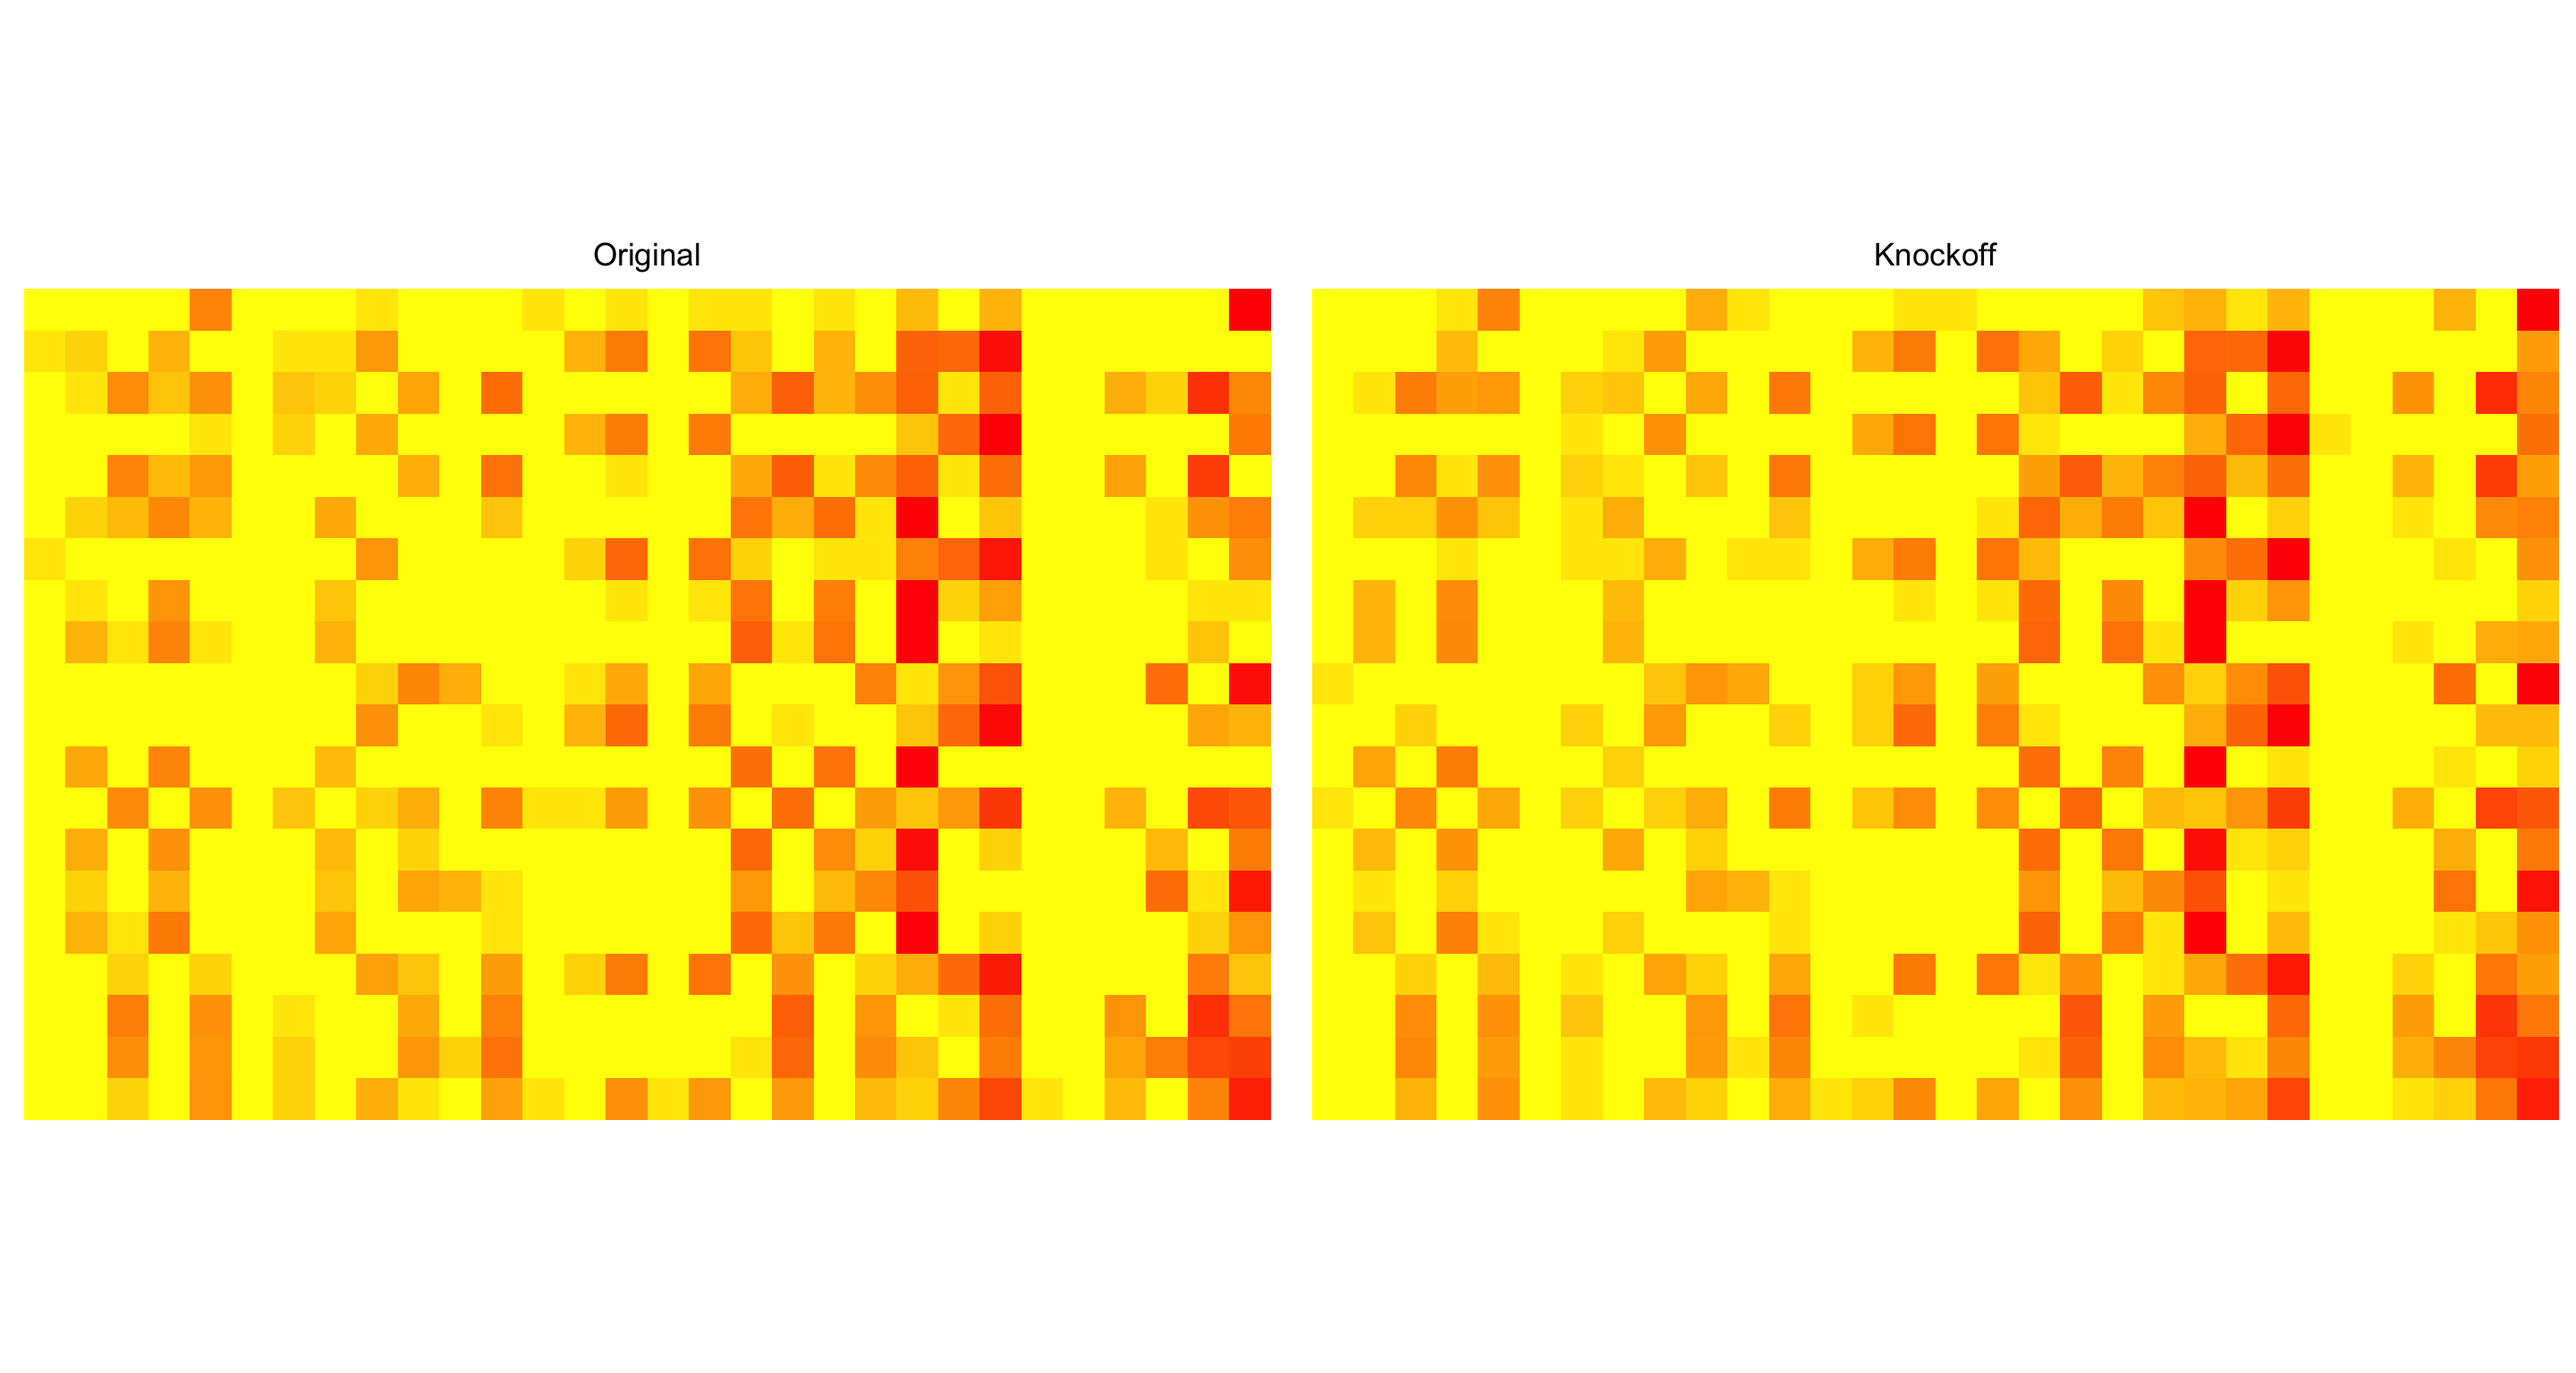
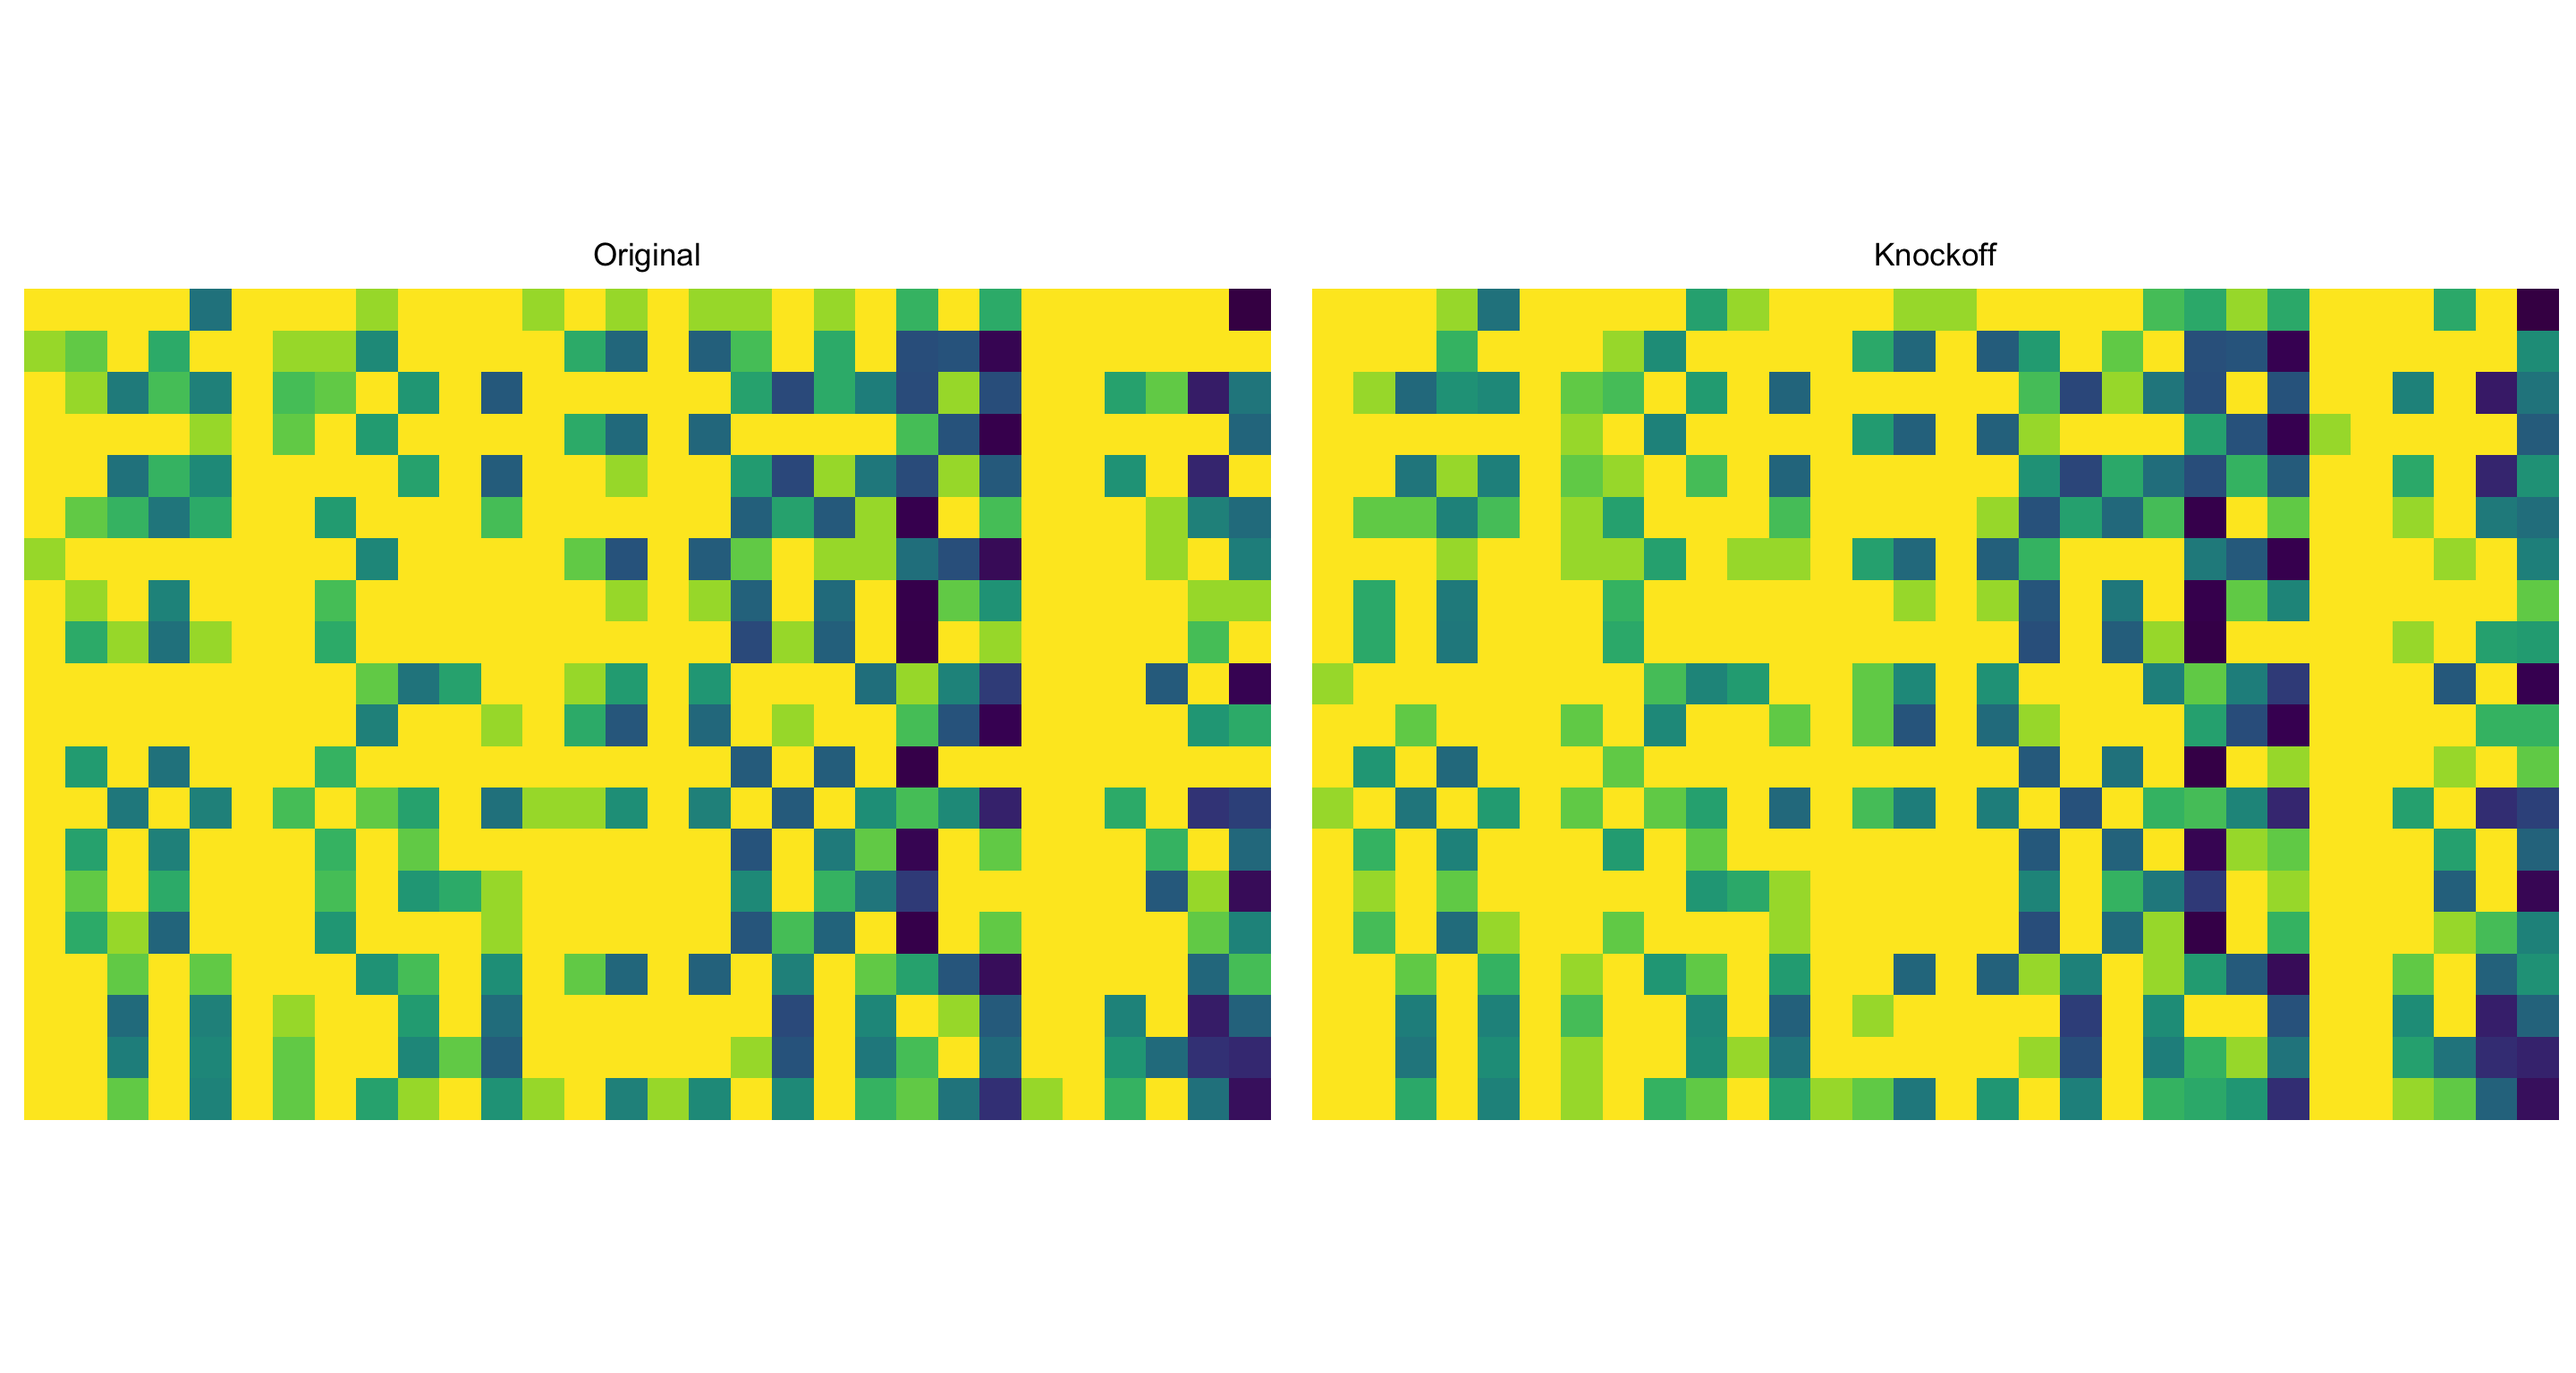
Updated Heatmaps

diff --git a/docs/Heatmaps.html b/docs/Heatmaps.html
@@ -382,7 +382,7 @@ aria-hidden="true"></span> </a>
 <div class="tab-content">
 <div id="summary" class="tab-pane fade in active">
 <p>
-<strong>Last updated:</strong> 2024-06-18
+<strong>Last updated:</strong> 2024-06-19
 </p>
 <p>
 <strong>Checks:</strong> <span
@@ -516,15 +516,15 @@ project makes it easier to run your code on other machines.</p>
 <div class="panel panel-default">
 <div class="panel-heading">
 <p class="panel-title">
-<a data-toggle="collapse" data-parent="#workflowr-checks" href="#strongRepositoryversionstrongahrefhttpsgithubcomghoshstatszinckwebsitetreeab6400d9cffa98ff7313a24230d9ecd128a1845atargetblankab6400da">
+<a data-toggle="collapse" data-parent="#workflowr-checks" href="#strongRepositoryversionstrongahrefhttpsgithubcomghoshstatszinckwebsitetreed4046024117146dd0fe93cb71858798c88ab1feftargetblankd404602a">
 <span class="glyphicon glyphicon-ok text-success"
 aria-hidden="true"></span> <strong>Repository version:</strong>
-<a href="https://github.com/ghoshstats/zinck-website/tree/ab6400d9cffa98ff7313a24230d9ecd128a1845a" target="_blank">ab6400d</a>
+<a href="https://github.com/ghoshstats/zinck-website/tree/d4046024117146dd0fe93cb71858798c88ab1fef" target="_blank">d404602</a>
 </a>
 </p>
 </div>
 <div
[2 lines of base64/hex data omitted]
 class="panel-collapse collapse">
 <div class="panel-body">
 <p>
@@ -534,7 +534,7 @@ reproducibility.
 </p>
 <p>
 The results in this page were generated with repository version
-<a href="https://github.com/ghoshstats/zinck-website/tree/ab6400d9cffa98ff7313a24230d9ecd128a1845a" target="_blank">ab6400d</a>.
+<a href="https://github.com/ghoshstats/zinck-website/tree/d4046024117146dd0fe93cb71858798c88ab1fef" target="_blank">d404602</a>.
 See the <em>Past versions</em> tab to see a history of the changes made
 to the R Markdown and HTML files.
 </p>
@@ -598,6 +598,40 @@ Message
 </tr>
 </thead>
 <tbody>
+<tr>
+<td>
+html
+</td>
+<td>
+<a href="https://rawcdn.githack.com/ghoshstats/zinck-website/51a584c54755df64d2d6c04273efc2044a5e9457/docs/Heatmaps.html" target="_blank">51a584c</a>
+</td>
+<td>
+Patron
+</td>
+<td>
+2024-06-18
+</td>
+<td>
+Changed Heatmaps
+</td>
+</tr>
+<tr>
+<td>
+Rmd
+</td>
+<td>
+<a href="https://github.com/ghoshstats/zinck-website/blob/65fc471e2e21c1bf19887a1e6d9507bc64f2c043/analysis/Heatmaps.Rmd" target="_blank">65fc471</a>
+</td>
+<td>
+Patron
+</td>
+<td>
+2024-06-18
+</td>
+<td>
+Updated Heatmaps
+</td>
+</tr>
 <tr>
 <td>
 html
@@ -680,10 +714,66 @@ rownames(X_zinck) &lt;- rownames(X_original)</code></pre>
 corresponding knockoff copy. The function applies an arcsinh
 transformation to the data for normalization and better visualization of
 abundance patterns and zero inflation within the sample taxa matrix.</p>
-<pre class="r"><code>heat1 &lt;- draw_heatmap(X_original, &quot;Original&quot;)
-heat2 &lt;- draw_heatmap(X_zinck, &quot;Knockoff&quot;)
+<pre class="r"><code>draw.heatmap &lt;- function(X, title=&quot;&quot;) {
+  reshape2::melt(asinh(X)) %&gt;%
+    dplyr::rename(sample = Var1, taxa = Var2, asinh.abun = value) %&gt;%
+    ggplot2::ggplot(., aes (x = taxa, y = sample, fill = asinh.abun)) +
+    ggplot2::geom_tile() + ggplot2::theme_bw() + ggplot2::ggtitle(title) +
+    ggplot2::labs(fill = &quot;arcsinh\nabundance&quot;) +
+    ggplot2::theme(plot.title = element_text(hjust = 0.5),
+                   axis.title.x=element_blank(), axis.title.y=element_blank(),
+                   axis.text.x = element_text(size=3, angle=90), axis.text.y = element_text(size=4)) +
+   viridis::scale_fill_viridis(discrete = FALSE, direction = -1, na.value = &quot;grey&quot;) +
+    theme(axis.title.x = element_blank(),axis.text.x = element_blank(),axis.ticks.x=element_blank(),
+          axis.title.y = element_blank(),axis.text.y=element_blank(),axis.ticks.y=element_blank())+
+    theme(panel.grid.major=element_blank(),panel.grid.minor = element_blank(),
+          panel.background = element_blank(),panel.border = element_blank())+
+    theme(legend.position=&quot;none&quot;) +
+    ggplot2::coord_fixed(ratio = 1)  # Fixing the aspect ratio
+}
+
+
+heat1 &lt;- draw.heatmap(X_original, &quot;Original&quot;)
+heat2 &lt;- draw.heatmap(X_zinck, &quot;Knockoff&quot;)
 plot_grid(heat1, heat2, ncol = 2, align=&quot;v&quot;)</code></pre>
 <p><img src="figure/Heatmaps.Rmd/heatmap-comparison-1.png" width="1440" style="display: block; margin: auto;" /></p>
+<p>
+<button type="button" class="btn btn-default btn-xs btn-workflowr btn-workflowr-fig" data-toggle="collapse" data-target="#fig-heatmap-comparison-1">
+Past versions of heatmap-comparison-1.png
+</button>
+</p>
+<div id="fig-heatmap-comparison-1" class="collapse">
+<div class="table-responsive">
+<table class="table table-condensed table-hover">
+<thead>
+<tr>
+<th>
+Version
+</th>
+<th>
+Author
+</th>
+<th>
+Date
+</th>
+</tr>
+</thead>
+<tbody>
+<tr>
+<td>
+<a href="https://github.com/ghoshstats/zinck-website/blob/51a584c54755df64d2d6c04273efc2044a5e9457/docs/figure/Heatmaps.Rmd/heatmap-comparison-1.png" target="_blank">51a584c</a>
+</td>
+<td>
+Patron
+</td>
+<td>
+2024-06-18
+</td>
+</tr>
+</tbody>
+</table>
+</div>
+</div>
 <p>It is evident from the above heatmaps that the knockoff copy is
 almost indistinguishable from the original matrix! This underscores the
 fact that the knockoff copy preserves the underlying structure of the
@@ -730,23 +820,24 @@ loaded via a namespace (and not attached):
 [34] StanHeaders_2.21.0-7 rmarkdown_2.22       MCMCpack_1.6-3      
 [37] pkgconfig_2.0.3      htmltools_0.5.5      highr_0.10          
 [40] fastmap_1.1.1        rlang_1.1.1          rstudioapi_0.14     
-[43] shape_1.4.6          jquerylib_0.1.4      generics_0.1.3      
-[46] farver_2.1.1         jsonlite_1.8.5       dplyr_1.1.2         
+[43] farver_2.1.1         shape_1.4.6          jquerylib_0.1.4     
+[46] generics_0.1.3       jsonlite_1.8.5       dplyr_1.1.2         
 [49] inline_0.3.19        magrittr_2.0.3       modeltools_0.2-23   
 [52] loo_2.6.0            Matrix_1.5-1         Rcpp_1.0.10         
-[55] munsell_0.5.0        fansi_1.0.4          lifecycle_1.0.3     
-[58] stringi_1.7.12       whisker_0.4.1        yaml_2.3.7          
-[61] MASS_7.3-60          pkgbuild_1.4.2       plyr_1.8.8          
-[64] grid_4.1.3           parallel_4.1.3       promises_1.2.0.1    
-[67] crayon_1.5.2         lattice_0.21-8       splines_4.1.3       
-[70] knockoff_0.3.6       knitr_1.43           ps_1.7.5            
-[73] pillar_1.9.0         topicmodels_0.2-14   codetools_0.2-19    
-[76] stats4_4.1.3         glue_1.6.2           evaluate_0.21       
-[79] getPass_0.2-2        RcppParallel_5.1.7   vctrs_0.6.5         
-[82] httpuv_1.6.11        foreach_1.5.2        MatrixModels_0.5-1  
-[85] gtable_0.3.3         cachem_1.0.8         xfun_0.39           
-[88] coda_0.19-4          later_1.3.1          survival_3.5-5      
-[91] tibble_3.2.1         iterators_1.0.14    </code></pre>
+[55] munsell_0.5.0        fansi_1.0.4          viridis_0.6.5       
+[58] lifecycle_1.0.3      stringi_1.7.12       whisker_0.4.1       
+[61] yaml_2.3.7           MASS_7.3-60          pkgbuild_1.4.2      
+[64] plyr_1.8.8           grid_4.1.3           parallel_4.1.3      
+[67] promises_1.2.0.1     crayon_1.5.2         lattice_0.21-8      
+[70] splines_4.1.3        knockoff_0.3.6       knitr_1.43          
+[73] ps_1.7.5             pillar_1.9.0         topicmodels_0.2-14  
+[76] codetools_0.2-19     stats4_4.1.3         glue_1.6.2          
+[79] evaluate_0.21        getPass_0.2-2        RcppParallel_5.1.7  
+[82] vctrs_0.6.5          httpuv_1.6.11        foreach_1.5.2       
+[85] MatrixModels_0.5-1   gtable_0.3.3         cachem_1.0.8        
+[88] xfun_0.39            coda_0.19-4          later_1.3.1         
+[91] viridisLite_0.4.2    survival_3.5-5       tibble_3.2.1        
+[94] iterators_1.0.14    </code></pre>
 </div>
 </div>
 
